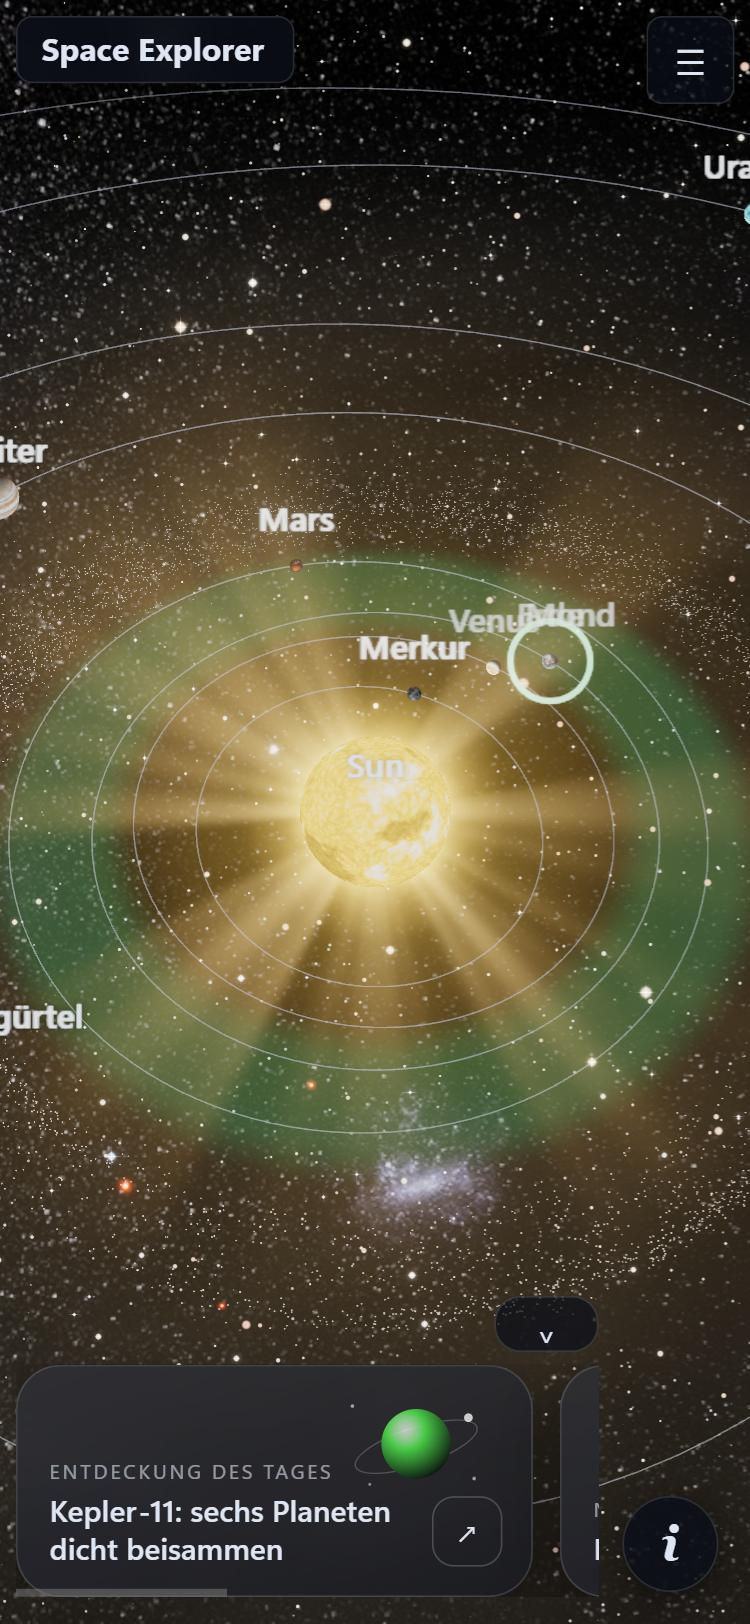
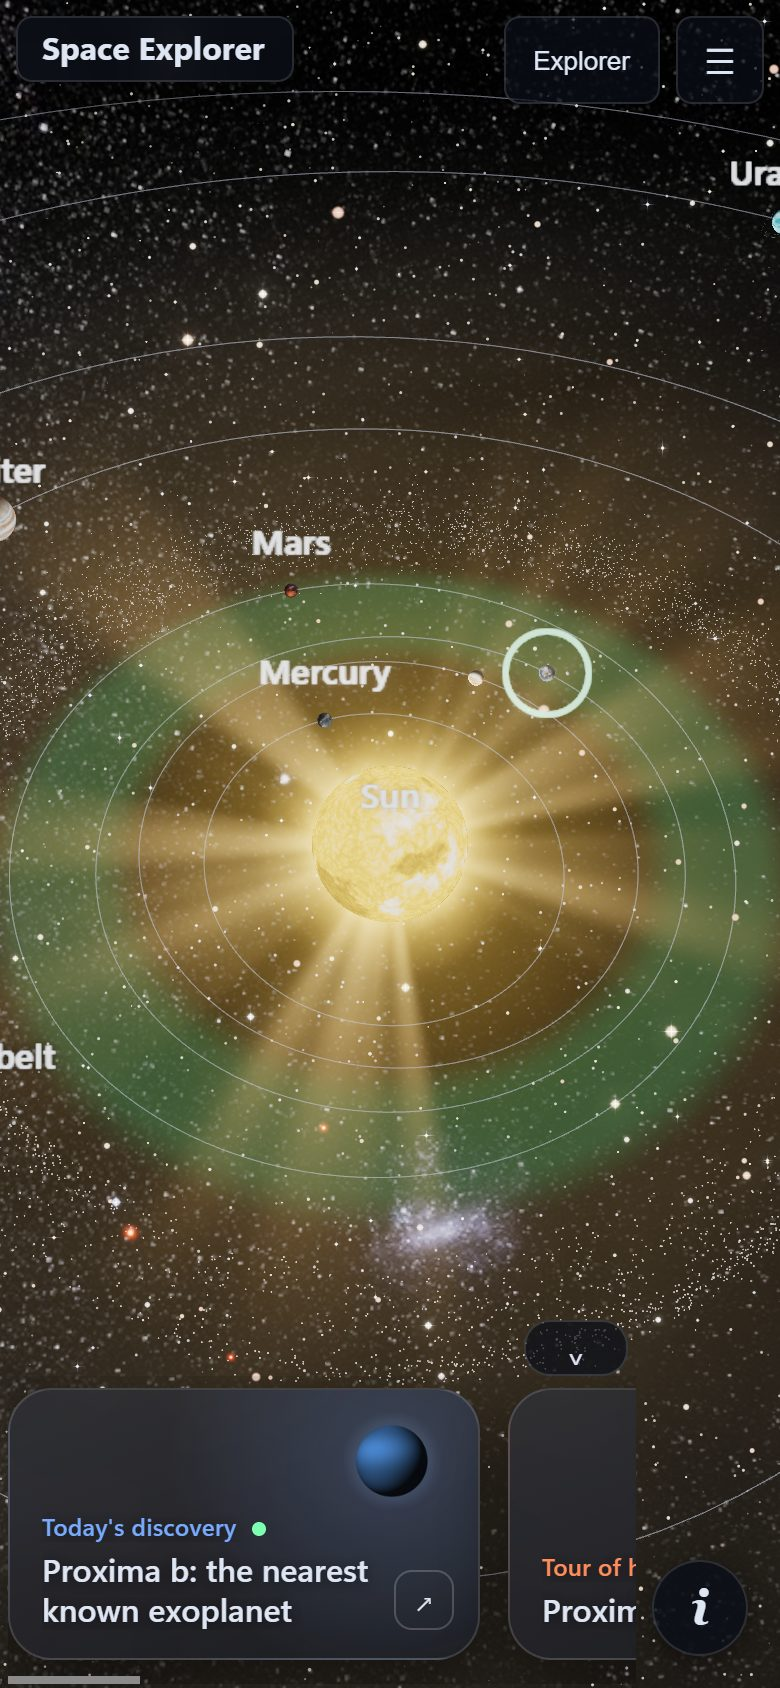
README: new screenshots; on a phone the dock keeps clear of the Info button
The screenshots showed the old start screen. New ones, made with a
headless Chrome from a fresh browser with sample data (born 1995 in
Vienna, not a real person): the map with the dock, My Universe, the ages
and the sky at the birth, the missions with the medals, the phone, and
the three pictures to share in English.

They also showed a bug on phones: the rule for the wider dock (six cards)
came after the phone rule and won, so the cards ran under the round Info
button. The phone rule now keeps the dock between the edge and the button.

diff --git a/web/style.css b/web/style.css
@@ -3574,6 +3574,9 @@ body:has(#day-flight:not([hidden])) #tour {
   border-radius: 9px;
 }
 @media (max-width: 640px) {
+  #dock {
+    width: auto; /* left and right decide (the round Info button is at the right); the rule of the wider dock above must not win here */
+  }
   .dock-card {
     flex: 0 0 236px;
     min-height: 136px;

diff --git a/README.md b/README.md
@@ -6,9 +6,15 @@ Fly through real exoplanet data in the browser: 1.2 million real stars and over 
 the Solar System with its planets where they are today, a travel planner with real distances and travel times, and a new discovery every day. It runs on
 desktop and on phones, in English, German, Japanese and Bulgarian. A private, non commercial portfolio project.
 
-| Start screen | Map with the dock | Explorer log | Phone |
+| Map with the dock | My Universe | Your star, your age, the sky at your birth | Missions and badges |
 | --- | --- | --- | --- |
-| ![Start screen](docs/screenshots/start-screen.jpg) | ![Map and dock](docs/screenshots/map-and-dock.jpg) | ![Explorer log](docs/screenshots/explorer-log.jpg) | ![Phone](docs/screenshots/phone.jpg) |
+| ![The Solar System with the dock](docs/screenshots/map-and-dock.jpg) | ![My Universe](docs/screenshots/my-universe.jpg) | ![Your age on the planets and the sky at your birth](docs/screenshots/my-universe-star-and-sky.jpg) | ![Missions and badges](docs/screenshots/missions-and-badges.jpg) |
+
+| Phone | Phone: My Universe | Picture to share: your age | Picture to share: the sky at your birth |
+| --- | --- | --- | --- |
+| ![Phone](docs/screenshots/phone.jpg) | ![My Universe on a phone](docs/screenshots/phone-my-universe.jpg) | ![Picture to share: my age on the planets](docs/screenshots/share-ages.jpg) | ![Picture to share: the sky at my birth](docs/screenshots/share-sky.jpg) |
+
+The screenshots are made with a headless Chrome from a fresh browser with sample data (born 1995 in Vienna), not with the data of a real person.
 
 ## What it does
 
@@ -258,7 +264,7 @@ The button "Real scale: off / on" at the top of the left panel (above the Travel
 - **Zone quiz (`web/zonegame.js`):** a button in the bar of the tour starts five rounds. Each round takes a system of the catalogue with two or three planets whose orbits are known, shows the star (temperature, radius) and the distances of the planets on a log axis, and asks which planet orbits inside the candidate zone (equilibrium temperature 180 to 310 K, the rule of the map). Only systems where exactly one of the shown planets lies in the zone are used (171 systems in the data have such a pair or more); the order is random. After the answer the zone appears as a green band, with an explanation, "too hot" or "too cold" for the others, a link to see the system in 3D, and the reminder that the zone only says that a temperature could fit. At the end the score is shown. Two missions use it (play, and 4 of 5 right). Event names: `zone-quiz-start`, `zone-quiz-end-<score>`. The quiz is found in two places: a third button on the start screen, and the button in the bar of the tour, which pulses until the quiz was opened once (remembered as `zone-seen`; no pulse with reduced motion). Nothing about the answers is stored.
 - **Card "Sternzeichen" in the dock:** the fifth card ("Zodiac signs", "Learn and test") opens the learning panel. The zone quiz is in the bar of the tour. The constellation switches are **not remembered**: the figures are off at every start.
 - **Zodiac signs and constellations (`web/constellations.js`, `web/atlas.js`, `src/build_constellation_stars.py`):** two separate switches in the Tools menu, **Zodiac signs** (the 12, green, with names) and **Other constellations** (the other 77, blue, names of the more important ones), so that the map is not full of lines; both are off at the start and not remembered. The figures are drawn **between the real stars at their real distances** on the map (seen from the Sun a figure looks as we know it, because the map keeps the direction of every star; seen from the side it falls apart, because its stars are at very different distances; Scorpius: nearest star 64 light years, farthest 1,930, Antares 554). Rings mark the stars of the figures that have known planets (30 such stars, with the name of the host and the number of planets). The card **Zodiac signs** in the dock opens the learning panel: first **flashcards** for a deck (the 12 zodiac signs, or the 77 other constellations): the front shows the figure as on the sky (east to the left) without the name, a button turns the card, the back has the name, the number of stars with a known distance, the nearest and the farthest, and the stars that have planets, with buttons to see the figure on the map from the Earth or from the side; "I knew it" counts, "Practise again" puts the card at the end of the queue until all are learned. **See the figures in 3D** comes before the quizzes: a figure opens with its stars as a list, a click on a star (in the list or on the map) puts a ring around it, moves it into the middle and shows its card (name, distance, how long its light has travelled, brightness, planets, Hipparcos number); the proper names of 132 well-known stars are written by hand in `web/data/star-names.json` and checked against the distance and brightness of the data. For the 12 zodiac signs a short text (`web/data/signs.json`, English and German, other languages show the English text) can be **read aloud** with the voice of the browser. Then **two quizzes**: "which one is it?" (the figure, four names) and "which star is the nearest?" (three marked stars of a figure, the nearest is at least 25 per cent nearer than the next, the answer shows the distances), five rounds each, for the deck chosen; and a list to **see the figures in 3D** (the figure bright with the distance of each star, camera from the Earth or from the side). Missions: "play a quiz about the zodiac signs" and "look at 6 constellations in 3D". On a wide screen the panel sits at the right and the map is centred left of it, on a phone it is at the bottom. The star names are not in the data yet (Hipparcos numbers are shown for stars without a planet), they are one of the "more stars" to download later. How the data is made: the two files of d3-celestial (BSD-3, Olaf Frohn) give the figures; every end of a line is matched to the nearest star of the Hipparcos new reduction (stars brighter than 6.5 mag from the ESA Gaia archive, 7,982 rows, 632 KB; Gaia itself lacks the brightest stars, only 27 per cent of the ends could be matched with it), 749 of 750 ends are within 0.05 degrees; the distance comes from the parallax; a host star of the NASA table counts when it is within 0.03 degrees and its distance agrees within 30 per cent. Not drawn in the real scale and while a ship flies. Credits in `THIRD_PARTY_NOTICES.md`, the info window and the imprint page. Event names `constellations-zodiac`, `constellations-others`, `atlas-open`, `atlas-cards-start`, `atlas-select`, `atlas-quiz-start`, `atlas-quiz-end-<score>`.
-- **Pictures to share (`web/sharecard.js`):** "Your star", "Your age on the planets" and "The sky at your birth" each have **Share as a picture**: the browser draws a picture of 1080 x 1350 pixels over a part of the real Milky Way (ESO/S. Brunier, CC BY 4.0, cropped and darkened, credited on the picture): the star with its light on the way to the Earth, from the year it set off to today (the colour of the star from its temperature); the eight planets as lit spheres made from the NASA maps of the page (Venus, Saturn, Uranus and Neptune painted in their colours, as in the 3D view) with the age and the way round the Sun, and the question "How old are you on Mars?"; the sign of astrology in gold next to the real figure of the constellation with its stars glowing by their brightness (Hipparcos), and the sentence that astrology is not a science. No name and no date are on it, with **Space Explorer** and the address of the site at the bottom, so that a shared picture leads back here. On a phone the share sheet opens with the picture and a short message with the link; where there is none (most desktop browsers) the picture is saved as a file. The page sends nothing itself. The link carries `?ref=share-star`, `share-ages` or `share-sky`; a visit that comes through it is counted once as `from-share-…` (and the parameter is then taken out of the address bar), and creating a picture is counted as `share-…`, so the dashboard shows which picture brings visitors.
+- **Pictures to share (`web/sharecard.js`):** "Your star", "Your age on the planets" and "The sky at your birth" each have **Share as a picture**: the browser draws a picture of 1080 x 1350 pixels over a part of the real Milky Way (ESO/S. Brunier, CC BY 4.0, cropped and darkened, credited on the picture): the star with its light on the way to the Earth, from the year it set off to today (the colour of the star from its temperature); the eight planets as lit spheres made from the NASA maps of the page (Venus, Saturn, Uranus and Neptune painted in their colours, as in the 3D view) with the age and the way round the Sun, and the question "How old are you on Mars?"; the sign of astrology in gold next to the real figure of the constellation with its stars glowing by their brightness (Hipparcos), and the sentence that astrology is not a science. No name and no date are on it, with **Space Explorer** and the address of the site at the bottom, so that a shared picture leads back here. On a phone the share sheet opens with the picture and a short message with the link; where there is none (most desktop browsers) the picture is saved as a file. The page sends nothing itself. The link carries `?ref=share-star`, `share-ages` or `share-sky`; a visit that comes through it is counted once as `from-share-…` (and the parameter is then taken out of the address bar), and creating a picture is counted as `share-…`, so the dashboard shows which picture brings visitors. Examples: [your star](docs/screenshots/share-star.jpg), [your age](docs/screenshots/share-ages.jpg), [the sky at your birth](docs/screenshots/share-sky.jpg).
 - **Pictures of the dock cards (`web/dockart.js`):** the six cards at the bottom draw their pictures with the same means after the first flight (when the maps of the planets are loaded anyway; simple drawings in `index.html` stand in until then): the planet of the discovery of the day as a lit sphere (from its NASA map, or in the colour of its temperature for an exoplanet), the nearest candidate in front of its star (in the colour of the star's temperature) with the green habitable zone, the constellation in which the Sun stands today from the Hipparcos stars of the map, an eclipse with the real Moon, a trip from the Earth to Mars, and the level as a ring that fills up to the next one (drawn again when the XP change). Each card has a soft light in the colour of its picture and lifts a little on hover. My Universe uses the same small pictures (`planetCanvas`, `starCanvas` in `web/sharecard.js`): the planet or star of the card "What next" and of the list below it, your star in the colour of its temperature, and the eight planets of the age tiles, each drawn once and then copied when the panel is drawn again; a plain colour stands in until a picture is ready. The **badges** are medals (`medalCanvas` in `web/sharecard.js`: a golden rim, a night-blue face and a picture of what each is for, with the same planets and stars): an earned one golden with its date, the others grey with a bar and a count of how far the visitor is ("7 / 25", from `count` and `need` of each badge in `web/explorer.js`). They are in My Universe under "Your progress" for every visitor (a fold whose head shows the nine small medals) and in the missions panel. The places seen and saved are chips with the small picture of each place, the quick actions show the pictures of the dock cards, the journal and the profile are rows with a picture and one line (the number of notes and collections; the name and the interest), and the account shows the first letter of the name as a round sign with the name and the address (the level and the badges are no longer repeated there).
 - **Events for GoatCounter (`web/stats.js`):** `track(name)` sends only the name of an event to GoatCounter (`goatcounter.count({path, title, event: true})`), which counts it like a page view: no name, no identifier, no cookie. If the counter script is blocked or not loaded yet, nothing happens; on localhost GoatCounter ignores it. The events: `welcome-closed`, `welcome-mars`, `welcome-habitable`, `welcome-map`, `welcome-plan` and `wl-daily` (start screen); `dock-daily`, `dock-near`, `dock-plan`, `dock-log` (dock); `daily-answer-right`, `daily-answer-wrong`, `daily-explore`; `trip-start-solar`, `trip-start-star`, `trip-arrived-solar`, `trip-arrived-star`; `mission-done-<mission id>`; `favourite-add`; `language-<code>`. The privacy notice names this. A first question to ask of the figures: of the visits, how many open the discovery of the day, answer it, and start a trip, and does that differ by language? The visit itself is measured as events too, without a person: `stay-1min`, `stay-5min` and `stay-15min` (once per visit, when the page has been open and visible that long), `returning` (the last visit of this browser, kept only in localStorage as `last-visit`, was more than 30 minutes ago), and `account-signup`, `account-signin` and `account-delete`. Technical measurements in coarse steps, at most once per visit: `load-under-2s`, `load-2-5s`, `load-5-10s`, `load-over-10s` (time until the map is shown), `fps-under-20`, `fps-20-40`, `fps-over-40` (average frame rate over 15 seconds, 10 seconds after the start, only if the page stayed visible), `webgl-context-lost` and `js-error` (a script error of this site, without its text; never the graphics card). Use of functions: `search-used`, `planner-open`, `info-open`, `listen-start`, `planet-click`, `measure-use`, `tour-complete`, `gaia-toggle` and `deep-toggle` (only a click of the visitor, not the automatic switching on). Numbers about the accounts are in `supabase/analytics.sql` (registrations per day, confirmed share, active accounts, levels, badges, favourites), tested on sample data in GitHub Actions. In the GoatCounter dashboard they are counted like page views, so the share of visits that reach 5 minutes, and the share of returning visits, can be read from them; they are not people and not sessions.
 - **Preview when the link is shared:** `index.html` has a description, Open Graph and Twitter card tags and a picture (`web/og.jpg`, 1200 x 630: Mars with the name, made from a screenshot of the map), so a link in WhatsApp, LinkedIn or Facebook shows a title, two lines and the picture. The page has a small icon (`web/favicon.svg`). The preview stays in English; the page itself follows the language of the visitor. Messengers keep a preview for a while, so after a change the new one can take some time to show.
